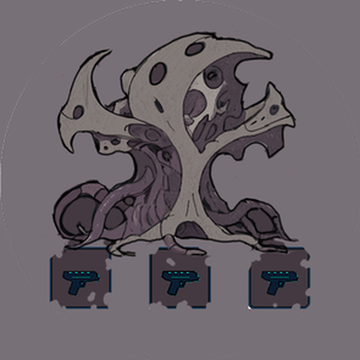
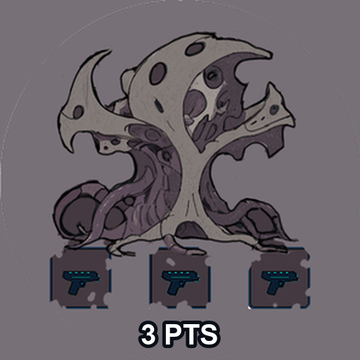
Monster and treasure tokens show their points
tts_art.py writes the mat's points at the bottom edge of the six token
faces (Yavuz: "hazine ile canavarların altına puanlarını yaz"), TTS only;
the print files keep the team's faces.

Changed region(s): [[0.3667, 0.8861, 0.6111, 0.9778]]

diff --git a/CHANGELOG.md b/CHANGELOG.md
@@ -8,6 +8,7 @@ The table now looks like the printed game:
 - Rooms have their doorways drawn in, so the deck holds the same tiles as the box: each kind of room comes in three layouts.
 - Event cards are 2:3 like the printed cards, with their rule in the box at the bottom.
 - Special objects go into the four glowing sockets of the Integration Chamber.
+- Monster and treasure tokens show their points at the bottom.
 
 ## v2.5 (2026-11-07)
 
